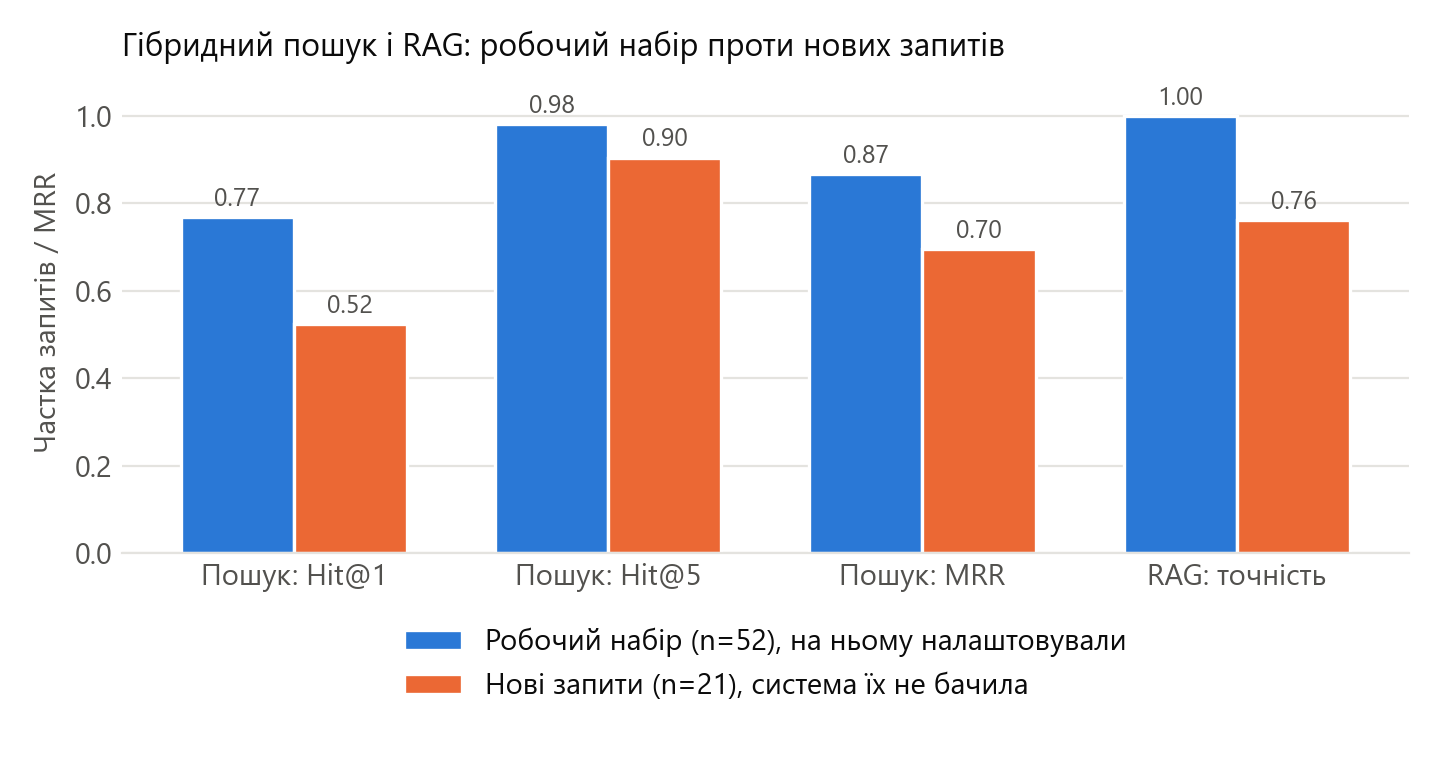
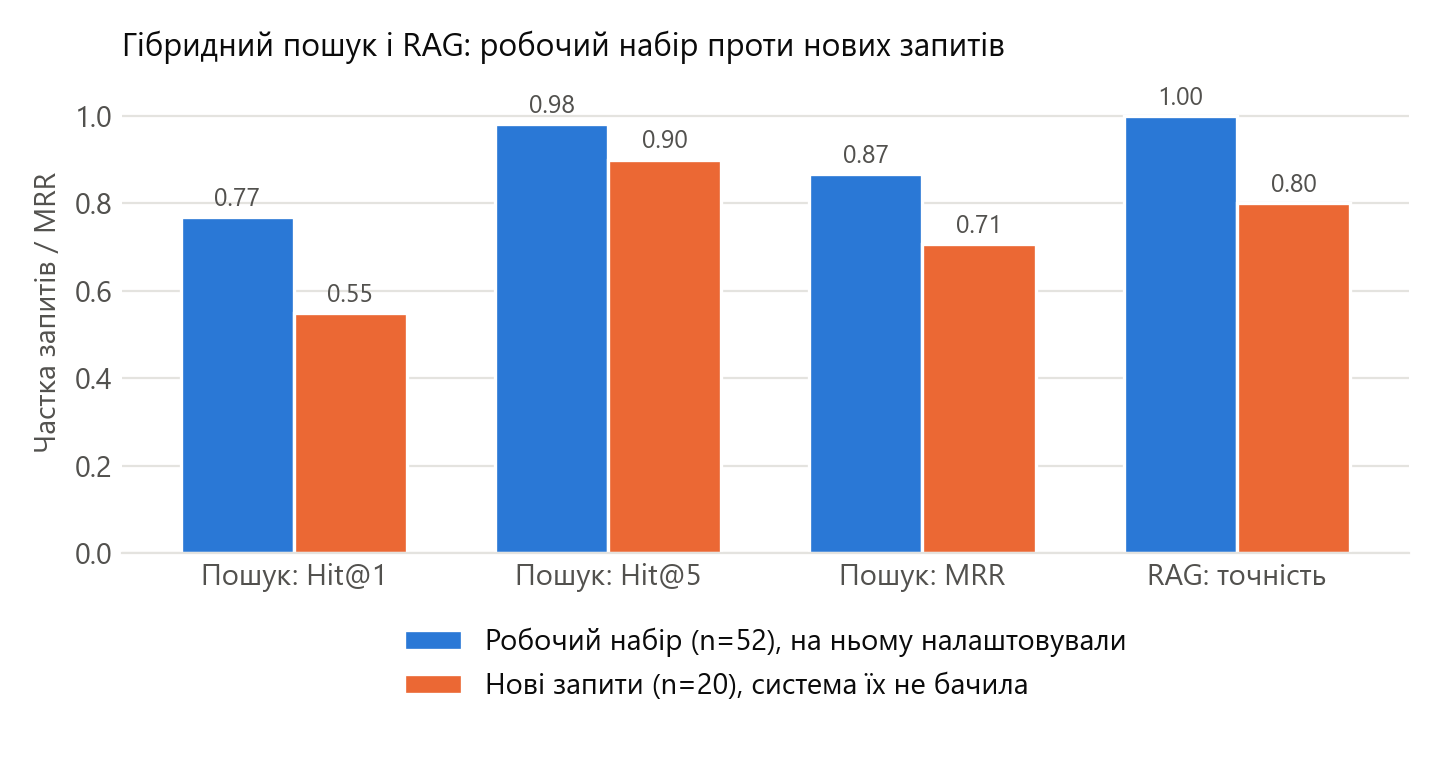
Уточнення u002 («вхід в деканат» = платформа з оцінками, на сайті немає), перерахунок оцінки

diff --git a/journal_kursova.md b/journal_kursova.md
@@ -341,8 +341,11 @@
 - **RAG на нових запитах (k=8, flash-lite):** точність **0.762** (16/21), пошук у топ-8 0.952, вигаданих URL 0, правильна відмова на «немає на сайті» **0.818** (9/11), медіана 2.3 с.
   - Справжні помилки: «вхід в деканат», «де знаходиться деканат» → сторінка «Персонал» (склад деканату), а не адреса з «Контактів» (місця входу на сайті немає); «як оплатити контракт» → пошук не знайшов «Оплата за навчання» (на сторінці немає слова «контракт» — розрив словника).
   - **Спірні (перевірити Марті, еталон не змінювали):** u031 «документи для вступу в магістратуру» → сторінка вступної кампанії (там є перелік документів, у еталон її не включили); u011 «поселення в гуртожиток» → «Студентське самоврядування» (згадує поселення); пастки u010 «стипендія» (сторінка згадує допомогу із соціальною стипендією) і u020 «курси англійської мови» (модель дала дисципліну «Англійська мова фахового спрямування»).
+- **Уточнення від Марти (19.11):** «деканат» у її запитах — це дві різні речі: **u001 «деканат»** — кабінет/підрозділ (еталон без змін), **u002 «вхід в деканат»** — вхід у платформу з оцінками (електронний деканат). На сайті факультету (і в знімку, і на живій головній сторінці) посилання на таку платформу **немає** — є лише «Електронне навчання» → e-learning.lnu.edu.ua. Тому u002 переведено в «немає на сайті» (правильна поведінка — відмова). Еталон змінено за поясненням авторки запиту, система не змінювалась; відповіді моделі ті самі, лише перераховано оцінку.
+- **Після уточнення (20 з відповіддю + 12 «немає на сайті»):** RAG точність **0.800** (16/20), правильна відмова **0.750** (9/12: помилково «відповіла» на «вхід в деканат» — сторінка «Персонал», «стипендія», «курси англійської мови»). Пошук (гібрид, перераховано тим самим скриптом) — див. `eval/results_user_final.json`.
+- **Висновок:** неоднозначні запити («деканат» = кабінет чи платформа) — окрема проблема навігаційного помічника: та сама фраза має різні наміри; система обирає найбільш «сайтовий» сенс і не уточнює. Ідея на майбутнє — уточнювальне питання або згадка про відсутню на сайті платформу.
 - **Рисунок:** `figures/fig6_generalization.png` — робочий набір проти нових запитів.
-- **Висновок для тексту:** точність на наборі, на якому налаштовували систему (0.98–1.00), завищена; чесна оцінка — на нових запитах (0.76 за суворою розміткою). Це головна цифра для розділу 3.
+- **Висновок для тексту:** точність на наборі, на якому налаштовували систему (0.98–1.00), завищена; чесна оцінка — на нових запитах (0.80 за суворою розміткою після уточнення u002). Це головна цифра для розділу 3.
 
 ---
 
@@ -387,7 +390,7 @@
 | 8 | 19.11.2026 | 4 виправлення (прислівник→прикметник, синоніми, «Розділ сайту» + правило 7 у промпті, зважений RRF — відкинуто) і k = 5 → 8 | v3, hybrid, gemini-3.1-flash-lite, 56 запитів | Пошук: гібрид Hit@5 0.981, MRR 0.867. RAG: k=5 0.942, **k=8 0.981**; хибна відмова 0; пастки 1.00 | Проти першої версії +0.154 \*, Мак-Немар p = 0.008 (8:0). Нова помилка q039 — побічний ефект промпту; зміни мотивовані тестовими запитами → потрібен новий набір |
 | 9 | 19.11.2026 | H4: BM25 з / без лематизації (pymorphy3) | фінальна конфігурація v3, 52 запити | BM25 MRR 0.728 → 0.836 \*, Hit@1 0.635 → 0.750 \*; гібрид MRR 0.840 → 0.867 (не значуще), Hit@5 0.904 → 0.981 \* | **H4 підтверджена для BM25**; у гібриді ефект менший — embeddings компенсують |
 | 10 | 19.11.2026 | RAG з уточненим промптом (правила 7/8), k=8 | робочий набір 52 + 4 пастки, flash-lite | точність 1.000, пастки 1.00 | q039 виправлено; цифра оптимістична (набір налаштування) |
-| 11 | 19.11.2026 | **Незалежна перевірка**: 32 нові запити (типові FAQ студентів + «деканат»), еталон до прогону | 21 з відповіддю + 11 «немає на сайті» | Пошук гібрид Hit@1 0.524, Hit@5 0.905, MRR 0.696 (BM25 0.559, embed 0.564); RAG точність **0.762**, відмова на відсутнє 0.818, вигаданих URL 0 | H3 підтверджена на нових даних; головна чесна цифра — 0.76 |
+| 11 | 19.11.2026 | **Незалежна перевірка**: 32 нові запити (типові FAQ студентів + «деканат»), еталон до прогону | 21 з відповіддю + 11 «немає на сайті» | Пошук гібрид Hit@1 0.524, Hit@5 0.905, MRR 0.696 (BM25 0.559, embed 0.564); RAG точність 0.762 → **0.800** після уточнення u002 авторкою (відмова на відсутнє 0.818 → 0.750), вигаданих URL 0 | H3 підтверджена на нових даних; головна чесна цифра — 0.80 |
 ---
 
 ## Ідеї для тексту курсової
